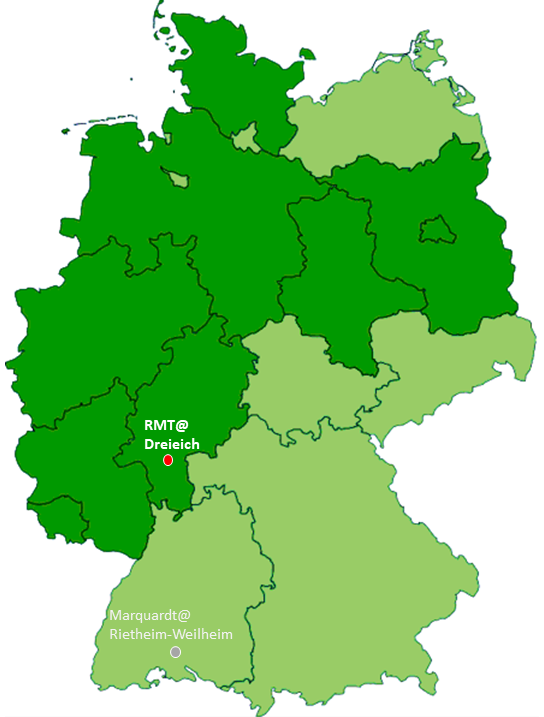
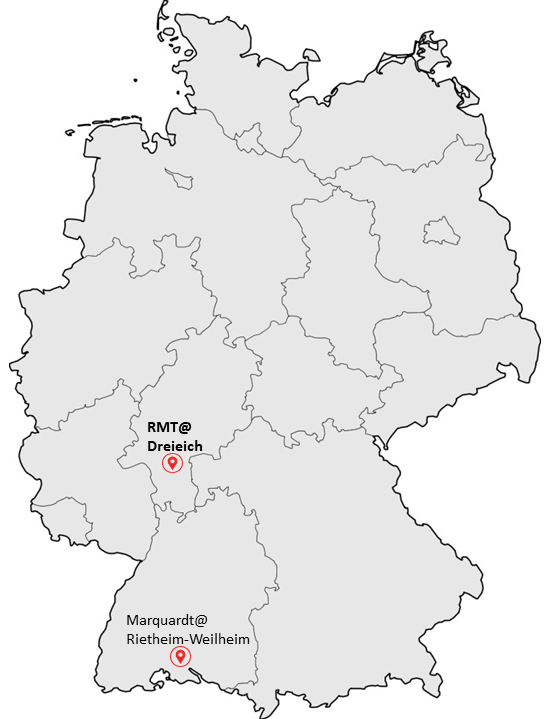
change location picture and reworked "who we are"

diff --git a/rmt/about/index.rst b/rmt/about/index.rst
@@ -1,12 +1,13 @@
 Who we are
 ==========
-
-Who we are and what we do:
-^^^^^^^^^^^^^^^^^^^^^^^^^^
-* We, the Rhine-Main team, are an evolving part of the `Marquardt <http://www.marquardt.com>`_ family and are building a new location with focus on system and software engineering. Currently we are active in e-Mobility, but the Marquardt product portfolio is huge and we want to grow into other areas.
-* We're applying methods and developing concepts with regard to system and software engineering within the automotive industry 
-* devoted to agile development
-* Marquardt is a global company with more than 10,000 employees at 21 locations.
+* TO DO
+* <insert pictures, name, (optional) contacts (linkedIn, Twitter, GitHub), etc>
+ 
+What we do:
+^^^^^^^^^^^
+* We, the Rhine-Main Team (RMT), are an evolving part of the `Marquardt <http://www.marquardt.com>`_ family and are building a new location with focus on system and software engineering. 
+* We apply methods and develop concepts with regard to system and software engineering within the automotive industry. 
+* We are devoted to agile development.
 * We create an attractive culture within our team and in particular for you.
   
 Who are you?
